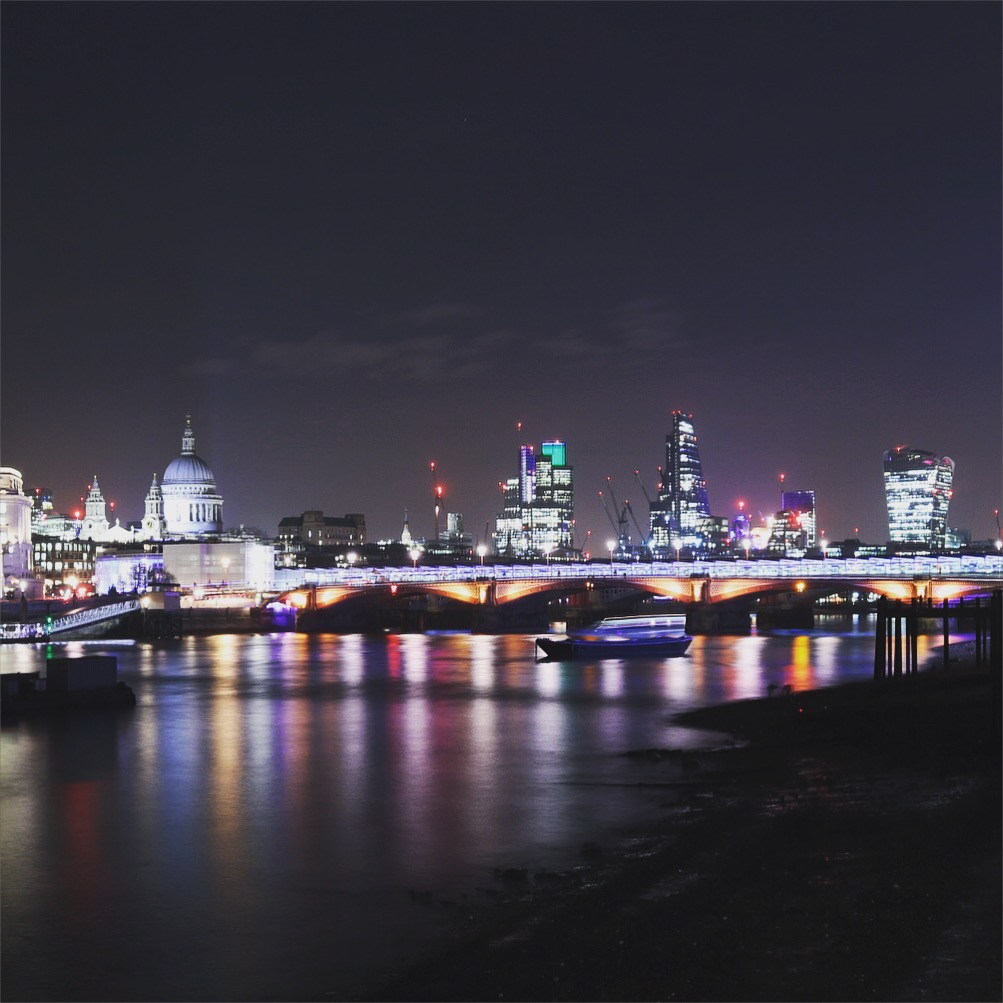
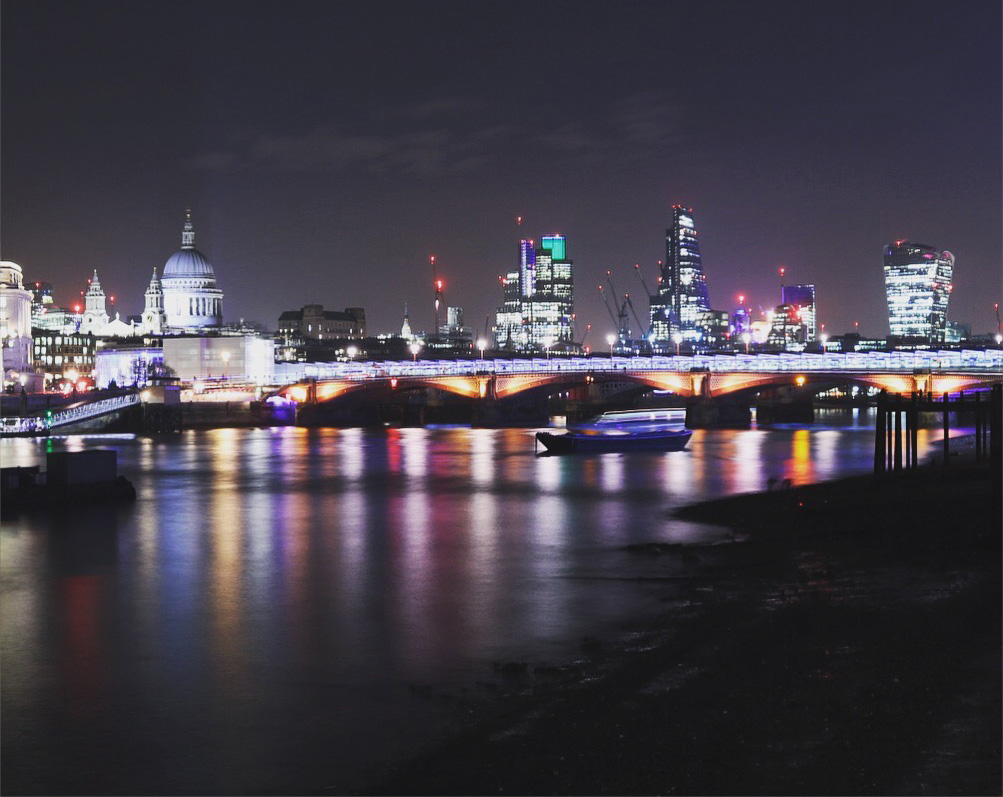
optimized images

diff --git a/js/app.js b/js/app.js
@@ -1,9 +1,9 @@
-document.addEventListener("DOMContentLoaded", function() {
+document.addEventListener('DOMContentLoaded', function() {
   // Console log
   console.log('Document loaded');
 
   var playerScore = 0;
-  var cards = document.querySelectorAll(".card");
+  var cards = document.querySelectorAll('.card');
   var moves = [];
   var clickedElements = [];
   var appendToBoard = document.getElementById('cardTable');
@@ -11,84 +11,83 @@ document.addEventListener("DOMContentLoaded", function() {
   var cardList = [
     {name: 'card1',image: 'bigredbus',id: 1},
     {name: 'card2',image: 'bridgeonfire',id: 2},
-    {name: 'card3',image:'switchhouse',id: 3},
-    {name: 'card4',image:'stpauls',id: 4},
-    {name: 'card5',image:'shard',id: 5},
-    {name: 'card6',image:'blackfriarsbridge',id: 6},
-    {name: 'card7',image:'cityhall',id: 7},
-    {name: 'card8',image:'sunsetshard',id: 8},
-    {name: 'card9',image:'bigredbus',id: 9},
-    {name: 'card10',image:'bridgeonfire',id: 10},
-    {name: 'card11',image:'switchhouse',id: 11},
-    {name: 'card12',image:'stpauls',id: 12},
-    {name: 'card13',image:'shard',id: 13},
-    {name: 'card14',image:'blackfriarsbridge',id: 14},
-    {name: 'card15',image:'cityhall',id: 15},
-    {name: 'card16',image:'sunsetshard',id: 16},
+    {name: 'card3',image: 'switchhouse',id: 3},
+    {name: 'card4',image: 'stpauls',id: 4},
+    {name: 'card5',image: 'shard',id: 5},
+    {name: 'card6',image: 'blackfriarsbridge',id: 6},
+    {name: 'card7',image: 'cityhall',id: 7},
+    {name: 'card8',image: 'sunsetshard',id: 8},
+    {name: 'card9',image: 'bigredbus',id: 9},
+    {name: 'card10',image: 'bridgeonfire',id: 10},
+    {name: 'card11',image: 'switchhouse',id: 11},
+    {name: 'card12',image: 'stpauls',id: 12},
+    {name: 'card13',image: 'shard',id: 13},
+    {name: 'card14',image: 'blackfriarsbridge',id: 14},
+    {name: 'card15',image: 'cityhall',id: 15},
+    {name: 'card16',image: 'sunsetshard',id: 16}
   ];
 
-function gamePlay(){
-  for(var i=0;i<cards.length;i++) {
-    cards[i].addEventListener('click', function() {         //Gameplay function created too call the data
-      var selection = this.getAttribute("data-image");      //in one function, contains all the images
-      moves.push(selection);                                //the win function and style background.
-      clickedElements.push(this);
-      console.log(moves);
-      console.log(clickedElements);
-      var image;
-      switch(this.id) {                                     //managed to refract the image switch by coupling
-        case 'card1':                                      //the pairs with equal images.
-        case 'card9':
-        image = "url('images/Archive/bigredbus.jpg')";
-        break;
+  function gamePlay(){
+    for(var i=0;i<cards.length;i++) {
+      cards[i].addEventListener('click', function() {         //Gameplay function created too call the data
+        var selection = this.getAttribute('data-image');      //in one function, contains all the images
+        moves.push(selection);                                //the win function and style background.
+        clickedElements.push(this);
+        console.log(moves);
+        console.log(clickedElements);
+        var image;
+        switch(this.id) {                                     //managed to refract the image switch by coupling
+          case 'card1':                                     //the pairs with equal images.
+          case 'card9':
+            image = "url('images/Archive/bigredbus.jpg')";
+            break;
 
-        case 'card2':
-        case 'card10':
-        image = 'url(images/Archive/bridgeonfire.jpg)';
-        break;
+          case 'card2':
+          case 'card10':
+            image = 'url(images/Archive/bridgeonfire.jpg)';
+            break;
 
-        case 'card3':
-        case 'card11':
-        image = 'url(images/Archive/switchhouse.jpg)';
-        break;
+          case 'card3':
+          case 'card11':
+            image = 'url(images/Archive/switchhouse.jpg)';
+            break;
 
-        case 'card4':
-        case 'card12':
-        image = 'url(images/Archive/stpauls.jpg)';
-        break;
+          case 'card4':
+          case 'card12':
+            image = 'url(images/Archive/stpauls.jpg)';
+            break;
 
-        case 'card5':
-        case 'card13':
-        image = 'url(images/Archive/shard.jpg)';
-        break;
+          case 'card5':
+          case 'card13':
+            image = 'url(images/Archive/shard.jpg)';
+            break;
 
-        case 'card6':
-        case 'card14':
-        image = 'url(images/Archive/blackfriarsbridge.jpg)';
-        break;
+          case 'card6':
+          case 'card14':
+            image = 'url(images/Archive/blackfriarsbridge.jpg)';
+            break;
 
-        case 'card7':
-        case 'card15':
-        image = 'url(images/Archive/cityhall.jpg)';
-        break;
+          case 'card7':
+          case 'card15':
+            image = 'url(images/Archive/cityhall.jpg)';
+            break;
 
-        case 'card8':
-        case 'card16':
-        image = 'url(images/Archive/sunsetshard.jpg)';
-        break;
-      }
+          case 'card8':
+          case 'card16':
+            image = 'url(images/Archive/sunsetshard.jpg)';
+            break;
+        }
 
-      this.style.backgroundImage = image;
+        this.style.backgroundImage = image;
 
-      checkWin();
-      clicks += 1;
-      document.getElementById("clicks").innerHTML = "Player Moves = " + clicks;
-    });
-
+        checkWin();
+        clicks += 1;
+        document.getElementById("clicks").innerHTML = "Player Moves = " + clicks;
+      });
+    }
   }
-}
 
-function checkWin () {                                 //Win function, checking if moves is equal to
+  function checkWin () {                                 //Win function, checking if moves is equal to
     if (moves.length == 2) {                           //moves length and if not a match 700th of a second
       if (moves[0] == moves[1]) {                      //flip back to backgroundImage.
 
@@ -96,8 +95,8 @@ function checkWin () {                                 //Win function, checking 
         clickedElements = [];
       } else {
         setTimeout(function(){
-          clickedElements[0].style.backgroundImage = "";
-          clickedElements[1].style.backgroundImage = "";
+          clickedElements[0].style.backgroundImage = '';
+          clickedElements[1].style.backgroundImage = '';
           moves = [];
           clickedElements = [];
         }, 700);
@@ -111,8 +110,8 @@ function checkWin () {                                 //Win function, checking 
 
   function shuffle(array) {
     var currentIndex = array.length,
-    temporaryValue,
-    randomIndex;
+      temporaryValue,
+      randomIndex;
 
     while (currentIndex !== 0) {
 
@@ -147,10 +146,10 @@ function checkWin () {                                 //Win function, checking 
   document.getElementById('btnReset').addEventListener('click', function(e) {
     // event.preventDefault(); //calling the shuffle image-list
     clicks = 0;
-    document.getElementById("clicks").innerHTML = "Player Moves = " + clicks;
+    document.getElementById('clicks').innerHTML = 'Player Moves = ' + clicks;
 
     insertShuffledCardDeck();
-    cards = document.querySelectorAll(".card");
+    cards = document.querySelectorAll('.card');
 
     gamePlay();
 

diff --git a/index.html b/index.html
@@ -14,7 +14,8 @@
       <div>
       <!-- <img src="http://i.imgur.com/PhbibAE.png">  back of cards image holder-->
       <div>
-        <ol id="cardTable"><li id="card1" class="card" data-image="bigredbus">
+        <ol id="cardTable">
+          <li id="card1" class="card" data-image="bigredbus">
           </li><li id="card2" class="card" data-image="blackfriarsbridge">
           </li><li id="card3" class="card" data-image="bridgeonfire">
           </li><li id="card4" class="card" data-image="cityhall">
